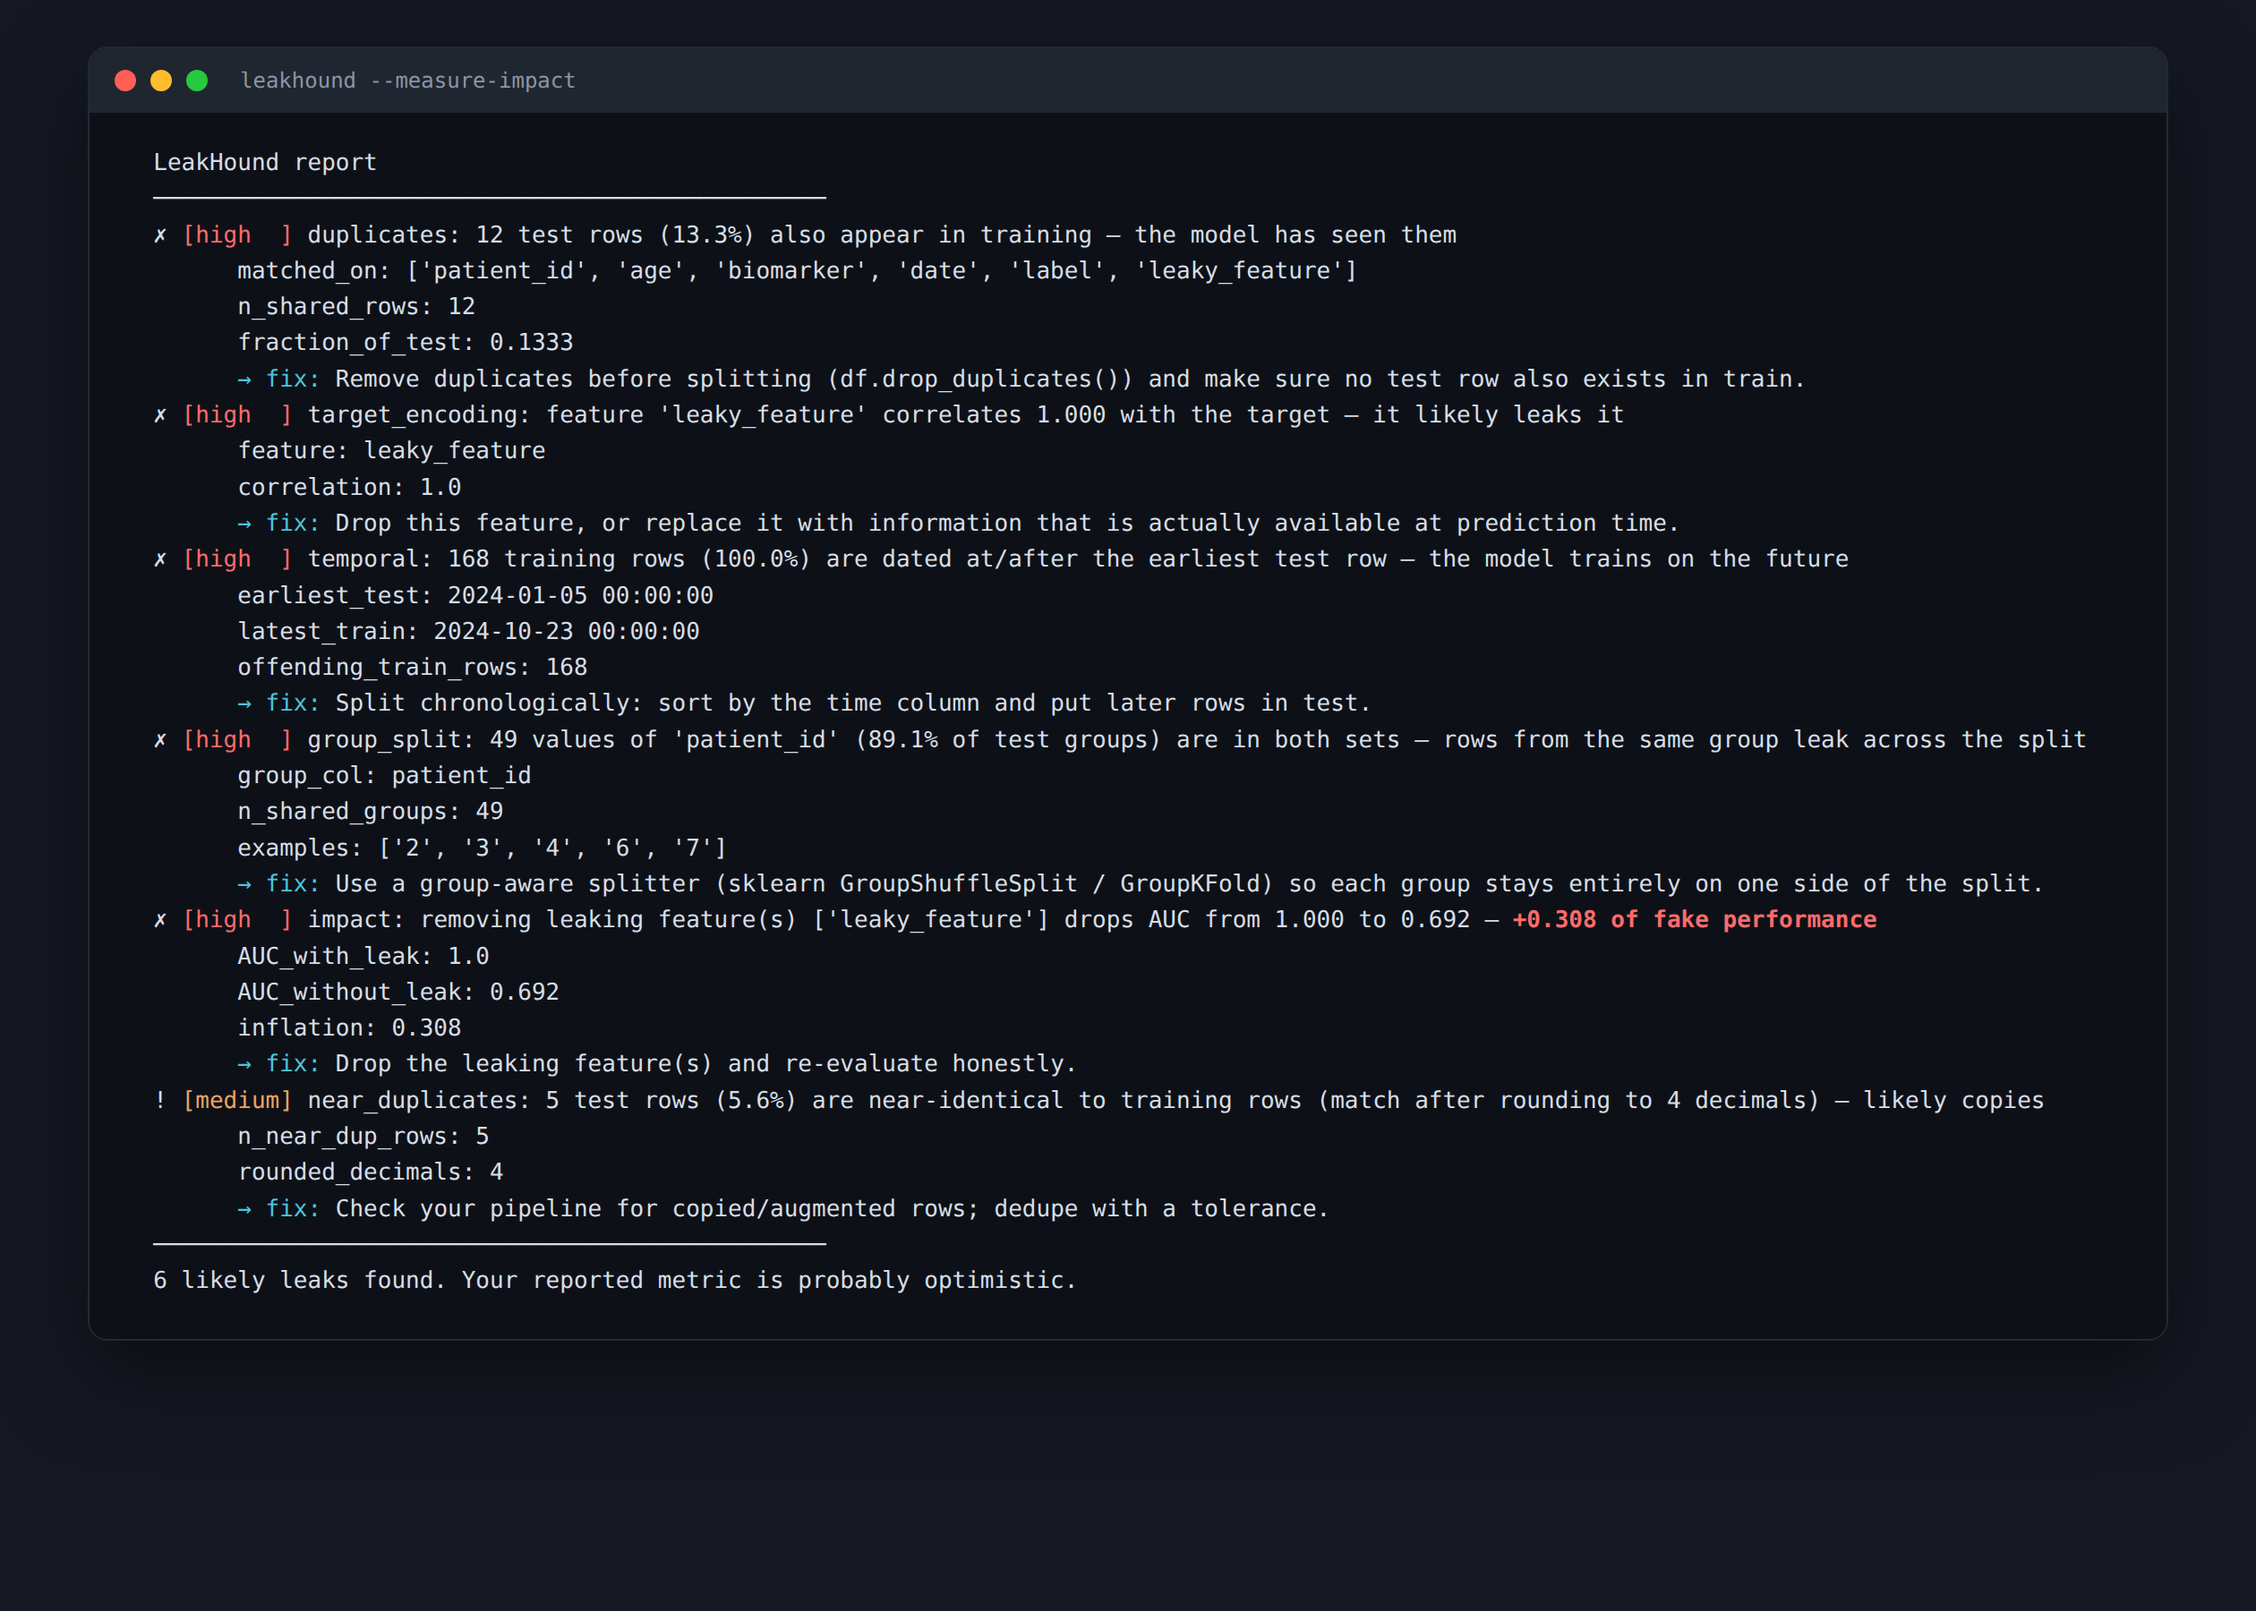
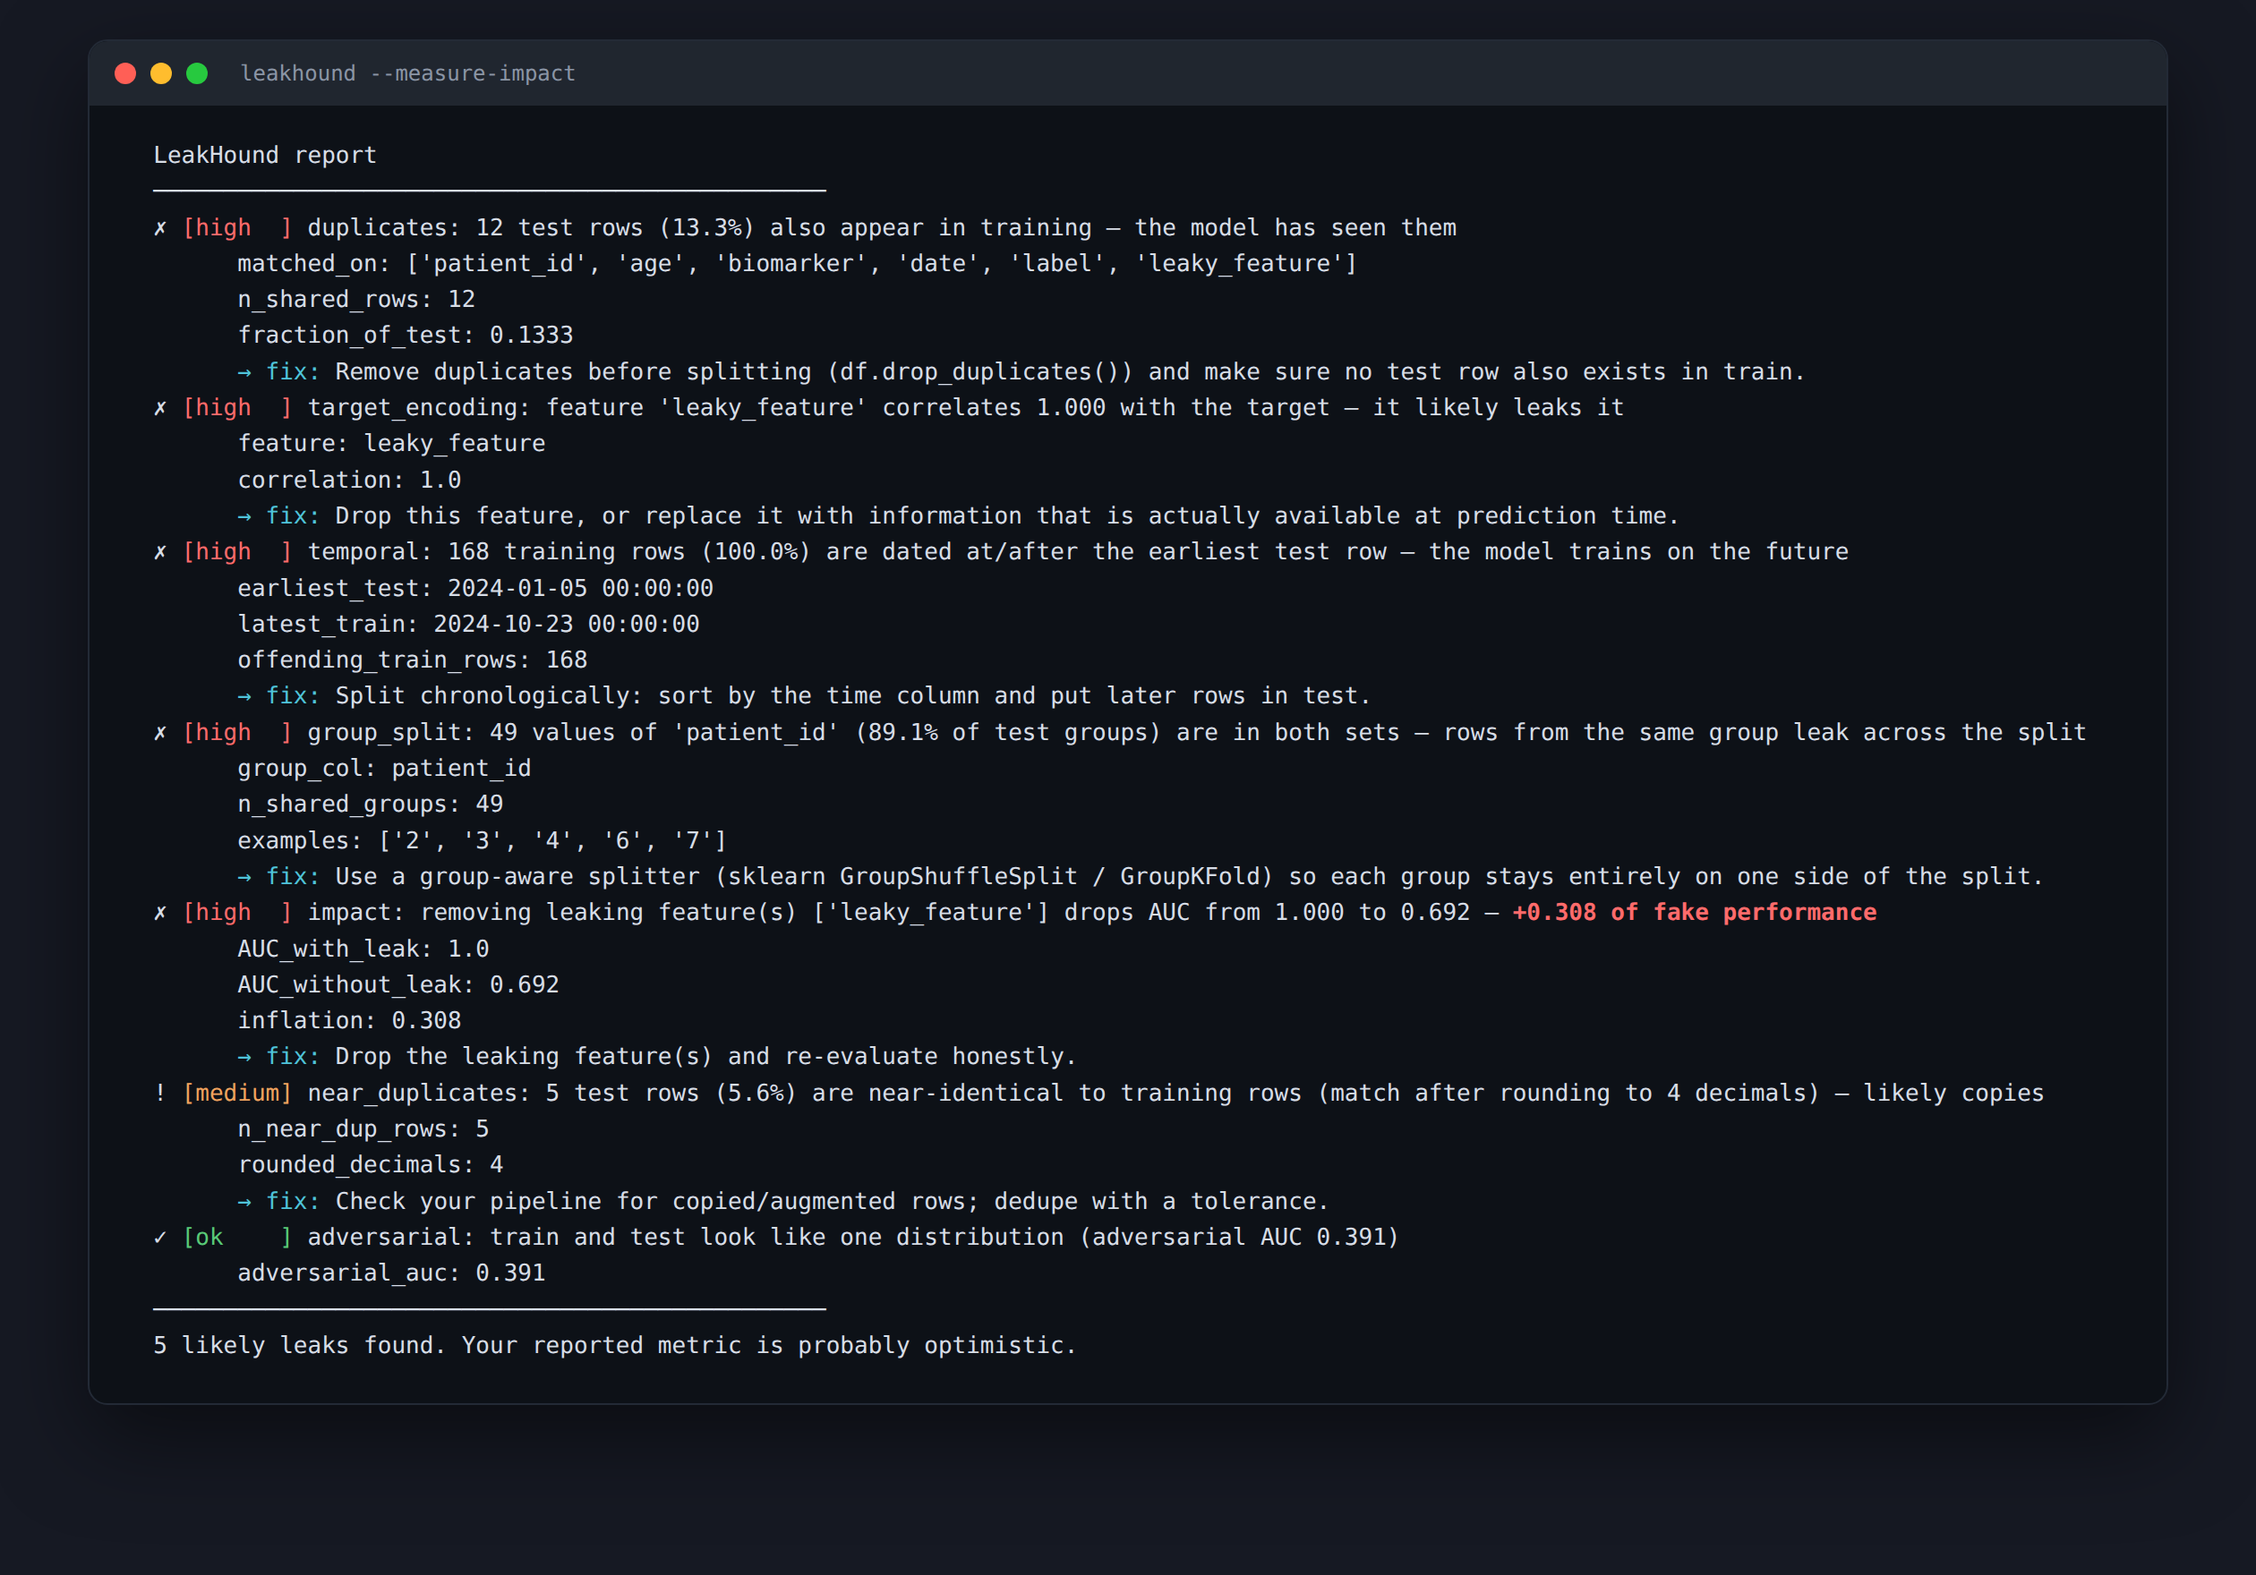
0.5.0: DNA-aware homology (--seq-k), CI, badges, precise leak count

diff --git a/src/leakhound/homology.py b/src/leakhound/homology.py
@@ -43,11 +43,25 @@ def _signature(kmers: set[str], perms) -> list[int]:
     return [min((a * h + b) % _PRIME for h in bases) for a, b in perms]
 
 
+_NUCLEOTIDES = set("ACGTUN")
+
+
+def _auto_k(seqs, k):
+    """Pick a k-mer size: larger for nucleotides (4-letter alphabet), smaller for protein."""
+    if k is not None:
+        return k, ("nucleotide" if False else "custom")
+    sample = "".join(str(x).upper() for x in list(seqs)[:50])
+    if sample and sum(c in _NUCLEOTIDES for c in sample) / len(sample) > 0.9:
+        return 6, "nucleotide"
+    return 3, "protein"
+
+
 def check_homology(train: pd.DataFrame, test: pd.DataFrame, seq_col: str,
-                   k: int = 3, threshold: float = 0.7, num_perm: int = 64) -> Finding:
+                   k: int | None = None, threshold: float = 0.7, num_perm: int = 64) -> Finding:
     if seq_col not in train.columns or seq_col not in test.columns:
         return Finding("homology", "low", f"sequence column '{seq_col}' not in both sets")
 
+    k, alphabet = _auto_k(train[seq_col], k)
     perms = _perms(num_perm)
     tr_sig = [_signature(_kmers(s, k), perms) for s in train[seq_col].astype(str)]
 
@@ -82,8 +96,8 @@ def check_homology(train: pd.DataFrame, test: pd.DataFrame, seq_col: str,
         "homology", sev,
         f"{n_hits} test sequences ({frac:.1%}) are highly similar to training sequences "
         f"(estimated k-mer Jaccard ≥ {threshold}) — homology leakage inflates biological ML",
-        {"seq_col": seq_col, "k": k, "threshold": threshold, "n_similar": n_hits,
-         "example_similarities": examples},
+        {"seq_col": seq_col, "alphabet": alphabet, "k": k, "threshold": threshold,
+         "n_similar": n_hits, "example_similarities": examples},
         fix="Split by sequence similarity so near-homologues stay on one side "
             "(safesplit(df, seq_col=...), or CD-HIT / MMseqs2).",
     )

diff --git a/src/leakhound/cli.py b/src/leakhound/cli.py
@@ -22,6 +22,7 @@ def main(argv: list[str] | None = None) -> int:
     p.add_argument("--time-col", help="timestamp column (checks look-ahead leakage)")
     p.add_argument("--group-col", help="group id column, e.g. patient/user/device")
     p.add_argument("--seq-col", help="sequence column (protein/DNA) for homology-leakage check")
+    p.add_argument("--seq-k", type=int, help="k-mer size for the homology check (auto: 3 protein / 6 nucleotide)")
     p.add_argument("--auto", action="store_true",
                    help="auto-detect target/time/group columns (and advise on a single file)")
     p.add_argument("--measure-impact", action="store_true",
@@ -45,7 +46,7 @@ def main(argv: list[str] | None = None) -> int:
               f"group_col={group_col!r}")
 
     report = audit(train, test, target=target, time_col=time_col, group_col=group_col,
-                   seq_col=args.seq_col, measure_impact=args.measure_impact)
+                   seq_col=args.seq_col, seq_k=args.seq_k, measure_impact=args.measure_impact)
 
     if args.auto and test is None:
         for f in build_advisories({"time_col": time_col, "group_col": group_col}):

diff --git a/src/leakhound/__init__.py b/src/leakhound/__init__.py
@@ -15,7 +15,7 @@ from .checks import (
 from .autodetect import infer_roles, build_advisories
 from .homology import check_homology
 
-__version__ = "0.4.0"
+__version__ = "0.5.0"
 __all__ = ["audit", "Report", "Finding", "infer_roles", "build_advisories", "__version__"]
 
 
@@ -26,6 +26,7 @@ def audit(train: pd.DataFrame,
           time_col: str | None = None,
           group_col: str | None = None,
           seq_col: str | None = None,
+          seq_k: int | None = None,
           feature_cols: list[str] | None = None,
           measure_impact: bool = False) -> Report:
     """Run every applicable leakage check and return a Report.
@@ -47,7 +48,7 @@ def audit(train: pd.DataFrame,
     if test is not None and group_col is not None:
         report.add(check_group_split(train, test, group_col))
     if test is not None and seq_col is not None:
-        report.add(check_homology(train, test, seq_col))
+        report.add(check_homology(train, test, seq_col, k=seq_k))
 
     if measure_impact and test is not None:
         from .adversarial import adversarial_check

diff --git a/tests/test_features.py b/tests/test_features.py
@@ -115,3 +115,17 @@ def test_homology_clean_when_distinct():
     report = audit(train, test, seq_col="seq")
     hom = [f for f in report.findings if f.check == "homology"][0]
     assert hom.severity == "ok"
+
+
+def test_homology_dna_autodetects_k():
+    rng = np.random.default_rng(8)
+    nt = list("ACGT")
+    def seq(L=120): return "".join(rng.choice(nt, L))
+    train = pd.DataFrame({"seq": [seq() for _ in range(80)]})
+    near = []
+    for s in train["seq"].iloc[:15]:
+        s = list(s); s[30] = rng.choice(nt); near.append("".join(s))
+    test = pd.DataFrame({"seq": near + [seq() for _ in range(25)]})
+    hom = [f for f in audit(train, test, seq_col="seq").findings if f.check == "homology"][0]
+    assert hom.severity in ("high", "medium")
+    assert hom.evidence["alphabet"] == "nucleotide" and hom.evidence["k"] == 6

diff --git a/src/leakhound/report.py b/src/leakhound/report.py
@@ -48,7 +48,8 @@ class Report:
 
     @property
     def leaks(self) -> list[Finding]:
-        return [f for f in self.findings if f.is_leak]
+        # 'impact' quantifies an existing leak; it is not a separate leak to count.
+        return [f for f in self.findings if f.is_leak and f.check != "impact"]
 
     @property
     def clean(self) -> bool:

diff --git a/README.md b/README.md
@@ -2,6 +2,8 @@
 
 **Sniff out data leakage in your ML train/test split — before it fools you.**
 
+[![PyPI](https://img.shields.io/pypi/v/leakhound-ml)](https://pypi.org/project/leakhound-ml/) [![Tests](https://github.com/happyhellpt/leakhound/actions/workflows/tests.yml/badge.svg)](https://github.com/happyhellpt/leakhound/actions/workflows/tests.yml) [![Python](https://img.shields.io/pypi/pyversions/leakhound-ml)](https://pypi.org/project/leakhound-ml/) [![License: AGPL v3](https://img.shields.io/badge/license-AGPL--3.0-blue)](LICENSE)
+
 > 📖 **New here? Start with the [step-by-step Getting Started guide](GETTING_STARTED.md).**
 
 Your model posts a beautiful AUC. You're about to ship it, or submit the paper.

diff --git a/GETTING_STARTED.md b/GETTING_STARTED.md
@@ -130,6 +130,7 @@ Add the optional flags when your data has them — each switches on more:
 | `--time-col` | a date/timestamp column | look-ahead (temporal) check |
 | `--group-col` | an id column (patient, user, device) | group-split check |
 | `--seq-col` | a protein/DNA sequence column | homology-leakage check |
+| `--seq-k` | *(number)* | k-mer size for homology (auto: 3 protein / 6 DNA) |
 | `--measure-impact` | *(no value)* | quantify how much each leak inflates the score |
 | `--auto` | *(no value)* | auto-detect the columns above / advise on one file |
 | `--html PATH` | a file path | also write a shareable HTML report |
